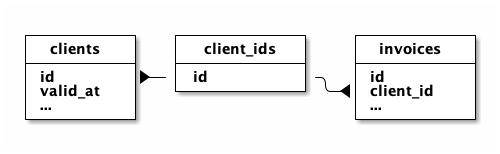
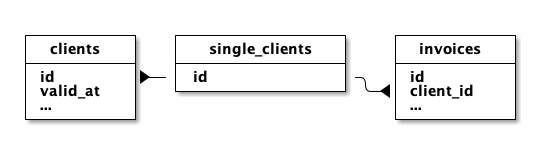
Edits after practicing

diff --git a/slides.md b/slides.md
@@ -229,33 +229,7 @@ Notes:
   - Just make a regular foreign key column and use it.
 - How do you make a non-temporal table point at a temporal table?
   - It has to reference a unique constraint, but you can't do that.
-  - I'll share my solutions in a bit.
-
-
-
-# Foreign Keys
-
-```sql
-WITH new_ids AS (
-  INSERT INTO ids.clients DEFAULT VALUES RETURNING id
-)
-INSERT INTO temporal.clients (id, valid_at, name)
-  SELECT id, daterange(current_date, null), 'Nadir'
-  FROM new_ids;
-```
-
-Notes:
-
-- If you have a really big sweater and you need to build a wall around your temporal tables, here is an idea.
-- It's a little desperate, to be honest.
-- You could have a table with just the ids standing in between the temporal tables and the rest.
-- It has just one column, the id.
-- Then to insert new temporal records, you do something like this.
-- This generates a new id in the middle table and uses it in your temporal table,
-- which has a foreign key to enforce integrity.
-- Other tables, like `invoices` reference the ids table.
-- Effectively you're saying that those other tables can reference a client if it *ever existed*.
-- I didn't feel like I needed to do this, but I tried it out anyway.
+  - Stay tuned!
 
 
 
@@ -303,15 +277,10 @@ Notes:
 
 Notes:
 
-- Snodgrass has a paper from 1993 with a lot of helpful algebraic results about temporal relational operators.
-- He developed a query language called TQuel, an extension to Quel, the query language of this old database---you may have heard of it---Ingres.
-- A result from that paper is very important for us.
-- Snapshotting is *isomorphic* over temporal operators.
-  - In other words, if you did some temporal joins and then snapshotted,
-    that's the same as snapshotting each table and then doing regular joins.
-  - In other words we can push down the filtering, and do the same query we were doing before.
-    - We don't really need all these temporal operators, if in the end we only care about a snapshot result.
-- So this means you don't need to change any queries you have today,
+- Fortunately, snapshotting is isomorphic over temporal operators.
+- This is from a Snodgrass paper from 1993.
+- What I mean is you can take the snapshot before you do stuff like joins, or after.
+- So even big complicated queries don't need any more changes,
   except to filter the base rels as I showed a moment ago.
 
 
@@ -319,7 +288,7 @@ Notes:
 # VIEWs
 <!-- .slide: style="font-size:75%; text-align:left" -->
 
-```sql[|16|17|2-15|9|4-8|10-14|17] CREATE VIEW clients AS
+```sql[|15|16|1-14|8|3-7|9-13|16] CREATE VIEW clients AS
 SELECT  id, name, slug,
         ..., position,
         -- created_at: The very first version's lower(valid_at):
@@ -426,15 +395,15 @@ Notes:
 
 # UPDATE
 
-```sql[|5-7|5-7,13]
+```sql[|5-8|5-8,13]
 CREATE FUNCTION update_work_categories_view() RETURNS trigger
 LANGUAGE plpgsql AS
 $$
 BEGIN
   UPDATE temporal.work_categories
     FOR PORTION OF valid_at
-      FROM current_timestamp at time zone 'UTC'
-      TO null
+      FROM current_timestamp AT TIME ZONE 'UTC'
+      TO NULL
     SET client_id = NEW.client_id,
         name      = NEW.name,
         rate      = NEW.rate
@@ -491,7 +460,6 @@ Notes:
   - How many times have you seen a soft-deleted record still referenced by not-deleted records?
     That shouldn't happen, right?
   - A temporal foreign key will see the problem and prevent the change.
-  - With regular soft-delete, you could have a non-deleted record pointing to a soft-deleted one, and your foreign keys won't catch it.
   - With a temporal foreign key, the referencing row can't outlive the referenced row.
   - Again, we could use an `INSTEAD OF` trigger so we don't have to change any code.
 
@@ -499,7 +467,7 @@ Notes:
 
 # INSERT
 
-```sql[|8-9|10]
+```sql[|10|11-12]
 CREATE FUNCTION insert_work_categories_view()
 RETURNS trigger
 LANGUAGE plpgsql
@@ -508,7 +476,8 @@ $$
 BEGIN
   INSERT INTO temporal.work_categories
     (client_id, name, rate, valid_at) VALUES
-    (NEW.client_id,  NEW.name, NEW.rate, daterange(current_date, null))
+    (NEW.client_id,  NEW.name, NEW.rate,
+    tsrange(current_timestamp AT TIME ZONE 'UTC', NULL))
     RETURNING id INTO NEW.id;
   RETURN NEW;
 END;
@@ -553,7 +522,6 @@ Notes:
 - Then I had "work categories", which is like a broad classification of the work I'm doing: Development, Consulting, Design, etc.
   - In theory a different work category could have a different rate.
   - Work categories were children of their client snapshot, so they were effectively versioned too.
-    - I said before they were children of clients, but I lied.
     - So each time I change a client, I make new work category records.
     - We don't have to do this anymore!
   - As I mentioned before, if a work category doesn't change, it can reference one client version for some of its history, and another client version for the rest.
@@ -566,6 +534,7 @@ Notes:
   - I think this will remove a lot of annoying code from the app.
   - I was able to get through all that before this talk,
     but even better I broke it down into steps.
+  - I didn't completely drop the `client_snapshots` table right away; at first I made it into another view.
 
 
 
@@ -579,10 +548,6 @@ Notes:
 - Fo instance here is an acts table.
 - These other two are the same as before.
 - The acts table has what I did: it's the time-tracking table.
-- The use of time here is pretty weird.
-  - I was trying to avoid timezone issues.
-  - So I captured the day alone as a date column, so there was no question there.
-  - Then the start and end times are timestamps.
 - This is just an example of something that references `client_snapshots` and `work_categories`.
 - There are also invoices and email templates.
   - Yes every application eventually sends mail!
@@ -607,23 +572,17 @@ Notes:
 - First of all, doing this migration will probably uncover a lot of bad data.
   - I had way fewer constraints than I would add now,
     and I guess I never revisited that.
-- In my case, there were several times when I tracked time outside of the app before I created a client record, then I put the acts into the app.
-  - Since I want to use the act's `created_at` column, this is going to cause some small problems.
-- I found a few other things too, like abusing the system before I had built out features I needed.
-  - Like one time a client asked me to send separate invoices for different concurrent projects.
-  - Or I had multiple client records so I could do retainer payments with a higher overflow price.
 - The best way to do this is to add as many constraints as you can *before* you do the temporal migration.
 - And then I was able to do this in steps.
   - Most things have foreign keys to a client snapshot, not the overall client.
     - That's how I know what PO number to use, how many retainer hours to work, etc.
     - So replacing that with a view would be very helpful!
-    - The goal is to avoid application changes as much as possible.
   - Then I'd like to discard the "client snapshot" concept altogether.
     - That of course requires a lot of app changes.
     - Actually it was pretty easy, like changing two or three files.
-      - Except nearly every *tests* had to be changed too, because their setup was creating `client_snapshots`.
+      - Except nearly every *test* had to be changed too, because their setup was creating `client_snapshots`.
   - And then I also converted `work_categories` to a temporal table.
-  - Here again a view is helpful so reporting and invoicing still give correct answers.
+  - Here again a view was helpful for a while so reporting and invoicing still give correct answers.
 
 
 
@@ -636,8 +595,7 @@ Notes:
 
 Notes:
 
-- How do you achieve incremental progress?
-- Foreign keys are what really mess this up.
+- But to break it down into steps, I had to solve foreign keys between legacy and temporal tables.
   - All tables are connected.
   - So you need non-temporal tables to reference temporal ones, and that's the kind of foreign key we don't have.
 - I have four solutions for this:
@@ -699,11 +657,11 @@ Notes:
   - Foreign keys are just triggers; you can make your own.
   - You check foreign keys in four places: if the referenced table is updated or deleted, if the referencing table is inserted or updated.
 
-- I've done this by hand before, but here I had Claude spat out for me.
+- I've done this by hand before, but here I asked Claude, and it spat out this.
   - This is the function to add a foreign key.
     - It takes the table and column names.
     - Then it puts a trigger on the referencing table,[SHOW]
-    - and another table on the referenced table.[SHOW]
+    - and another trigger on the referenced table.[SHOW]
 
 
 
@@ -768,6 +726,7 @@ Notes:
 
 
 # ID Tables
+<!-- .slide: style="font-size:85%" -->
 
 ![`client_ids` table](/img/client_ids_table.png)
 
@@ -792,8 +751,12 @@ $$;
 Notes:
 
 - I also tried out making a separate id table.
+  - Say you haven't migrated your invoices table yet, but it needs to reference a client.
+    - You could put a non-temporal table in the middle, which only has one column.
+  - Like foreign keys, effectively you're saying that those other tables can reference a client if it *ever existed*.
   - This idea seems quite desperate, to be honest.
   - I just wanted to prove that it worked.
+
   - It wasn't *that* bad.
     - I used a `BEFORE INSERT` trigger on the real table to insert a row into the ids table.
     - Here is that function.
@@ -808,7 +771,7 @@ Notes:
 # Clients
 <!-- .slide: style="font-size:85%" -->
 
-```sql[|2-4,9|6-7|10|11-14|15]
+```sql[|2-4,9|6-7|10|11-14|8,15]
 CREATE TABLE temporal.clients (
   id integer NOT NULL GENERATED BY DEFAULT AS IDENTITY
     /* REFERENCES temporal.single_clients (id) */,
@@ -830,7 +793,7 @@ EOQ
 
 Notes:
 
-- Here is the temporal clients table.
+- Okay I think we are finally ready to make our temporal clients table.
 - So we have an id and a `valid_at` column, which are the primary key. [SHOW]
 - In the experiment with a separate ids table, the id was both part of the primary key and a foreign key!
   - Just writing my own "loose" foreign key trigger function was easier and a lot cleaner though.
@@ -839,7 +802,7 @@ Notes:
   - This is a problem for our non-temporal updatable view.
   - Our `INSTEAD OF` trigger explicitly sets each column, so it will set them to `NULL`, not the default.
   - We could detect nulls and fill in the default.
-  - Then the user-facing behavior of the view not quite the same as a regular table, where passing an explicit null doesn't give you the default.
+  - But then the user-facing behavior of the view not quite the same as a regular table, where passing an explicit null doesn't give you the default.
   - But it turns out views can have defaults too!
   - You can't put it into the `CREATE VIEW` command, but you can `ALTER VIEW` to add them.
   - That's great because our trigger function can stay nice and simple.
@@ -854,6 +817,7 @@ Notes:
   - Keeping it lets us build a view to replace the old table.
   - This is a non-temporal unique column.
   - So that lets us keep the same foreign keys as before.
+    - We don't even need our loose foreign keys yet, but I didn't keep this around for long.
   - This is a serial column, so future clients will get a new id.
   - OTOH if we do a temporal update, we *also* need to get a new id.
     - So we add a trigger for that.
@@ -908,6 +872,7 @@ JOIN    clients c ON c.id = cs.client_id;
 
 Notes:
 
+- Okay we've got a table, let's put data into it!
 - Here is SQL to fill the client history table.
 - Each snapshot becomes a new row.
 - I'm preserving the old client ids.[SHOW]
@@ -918,14 +883,16 @@ Notes:
   - Also this is an ordinary, non-temporal unique column.
     So foreign keys referencing client snapshots can point here instead.
     - Later I was able to replace those with references to `client_id` instead.
-  - After this command, we need to update the sequence!
+  - Just don't forget, after inserting these records, we need to catch up that sequence!
 - Then I build the valid-time. [SHOW]
   - Window functions are very helpful here.
     - A row's valid-time is just the creation time of the snapshot until the next snapshot.
-- The position column was tricky too, because we have a temporal unique constraint on it.[SHOW]
-  - Simply copying this from the old clients table wasn't ideal.
-    - It was okay, but it left gaps.
-    - Using `dense_rank` gives me no gaps.
+- I was worried the position column would be tricky,[SHOW]
+  - first because of its temporal unique constraint,
+  - and also I was worried about gaps.
+  - It practice these weren't an issue,
+    but you could use `dense_rank` as here to remove gaps.
+  - Unique violations are bad data you'll have to clean up.
 
 
 
@@ -935,7 +902,9 @@ Notes:
 ```sql
 SELECT  client_snapshot_id AS id,
         id AS client_id,
-        lead(client_snapshot_id) OVER (PARTITION BY id ORDER BY id) AS replaced_by_id,
+        lead(client_snapshot_id)
+          OVER (PARTITION BY id ORDER BY id)
+          AS replaced_by_id,
         name,
         ...,
         lower(valid_at) AS created_at,
@@ -951,6 +920,7 @@ Notes:
 - Here is the `client_snapshots` view.
 - It's really simple: just one-to-one from the new history table, with minor translation.
 - Computing the `replaced_by_id` column is the only interesting bit.
+  - Again, the lead window function is what we need.
 - I don't need this to be an updatable view: the idea is that these don't get updated, right?
 
 
@@ -976,23 +946,34 @@ WHERE   wc.valid_at @> current_timestamp at time zone 'UTC'
 
 Notes:
 
-- I was also able to move my `work_categories` into a temporal table.
-- In the past I made new work category rows here for each snapshot, even if they didn't change.
+- I also moved `work_categories` to a temporal table.
+- Here is the view to simulate the old legacy table.
+- As I said, in the past I made new work category rows here for each snapshot, even if they didn't change.
   That means that a work category doesn't have a constant id across versions.
   Fortunately the *name* is unique (within a client), so I still have a key.
 - My migration plan here has to be right, because work categories have the hourly rate I'm charging.
   - So each act has to join to the *right time*.
-  - At first I want to preserve the old work category ids, just as I preserved the snapshot ids.
-    Then I don't have to update any of those queries right away.
-  - When I do update them, I can drop the legacy work category ids, and use loose foreign keys to the new id that's shared across versions.
-- I won't do that in a fully-temporal database, but it's convenient that I did it before.
-  - I'll create a one-to-one mapping and use the client snapshot's valid-time.
+  - At first I preserved the old work category ids, just as I preserved the snapshot ids.
+    Then I didn't have to update any of those queries right away.
+  - Later I dropped the legacy work category ids and used loose foreign keys to the new id that's shared across versions.
+  - And then I had to join based on time instead of the legacy id.
 
-- And maybe I should preserve their old `client_snapshot_id` too?
+- I asked myself if the new `work_categories` table needed to store the old `client_snapshot_id` too?
   - Because often the app joins between work categories and their client snapshot by that id.
-  - But I don't really have to store it.
+  - But I don't actually need it!
   - A work category's valid time is going to be defined by its client snapshot's valid-time,
     so by construction I can join based on that.
+
+
+
+# Thanks!
+
+Notes:
+
+- Okay, that's it!
+- This migration is still in-progress, but I feel I've got a methodology and a clear path forward.
+- Thanks for letting me share this work with you!
+- Here is a link to these slides.[SHOW]
 
 
 
@@ -1005,3 +986,7 @@ Notes:
 - Boris Novikov. "PostgreSQL Temporal Aggregates: SUM, AVG & COUNT Across Time." Red Gate, 2024. https://www.red-gate.com/simple-talk/databases/postgresql/making-temporal-databases-work-part-2-computing-aggregates-across-temporal-versions/
 - Paul Jungwirth. These slides. https://github.com/pjungwir/migrating-to-a-temporal-schema
 
+Notes:
+
+- Here are references to other things I mentioned or that seem related.
+- But you can't read that, so you should start here.[BACK]